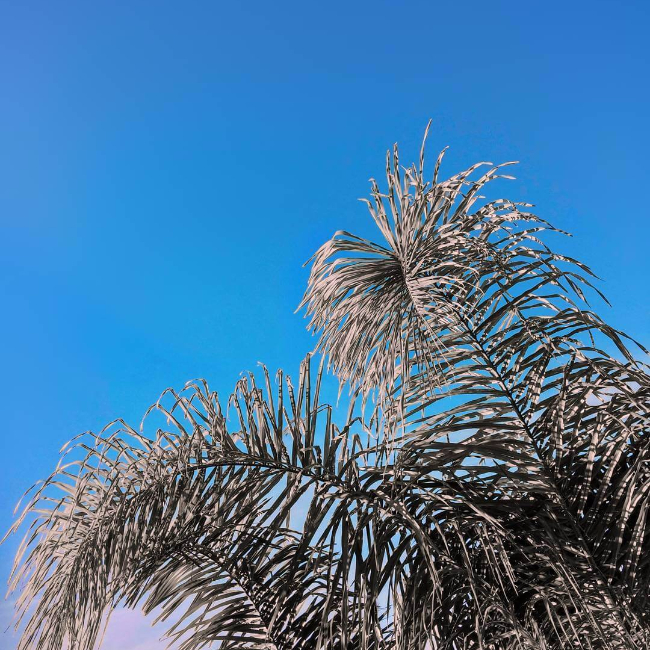
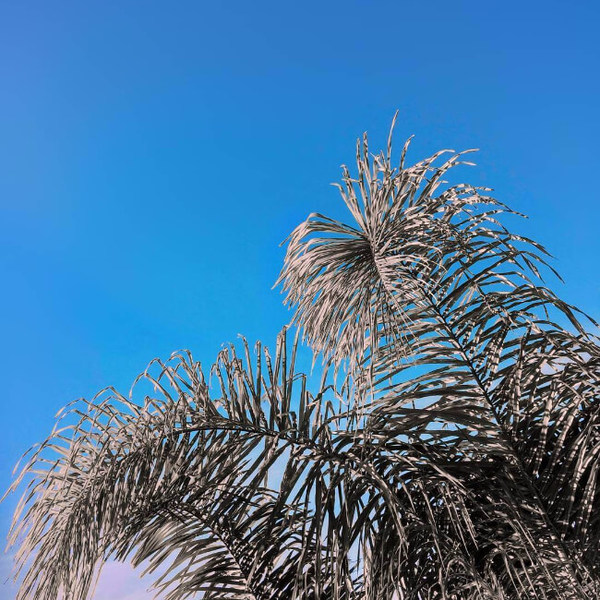
Major improvements and performance fixes Optimized and resized images, updated toolbox skills

diff --git a/index.html b/index.html
@@ -18,8 +18,26 @@
     <meta proprety="og:image" content="images/parallax.jpg"/>
     <title>Ryan Bourhil</title>
     <link rel="icon" href="favicon.ico" type="image/x-icon">
-    <link rel="stylesheet" href="https://cdnjs.cloudflare.com/ajax/libs/materialize/0.97.7/css/materialize.min.css">
-      
+
+    <link rel="stylesheet" href="https://cdnjs.cloudflare.com/ajax/libs/materialize/0.97.7/css/materialize.min.css"  media="none" onload="if(media!=='all')media='all'">
+    <link href="https://fonts.googleapis.com/icon?family=Material+Icons"
+    rel="stylesheet" media="none" onload="if(media!=='all')media='all'">
+  <link
+    rel="stylesheet"
+    href="https://cdnjs.cloudflare.com/ajax/libs/prism/1.5.1/themes/prism-okaidia.css"
+    type="text/css" 
+    media="none" 
+    onload="if(media!=='all')media='all'"
+    />
+    <link rel="stylesheet" href="https://npmcdn.com/jquery-gray@1.5.0/css/gray.min.css" media="none" onload="if(media!=='all')media='all'">
+   
+    <link rel="preload" href="https://code.jquery.com/jquery-2.1.1.min.js" as="script">
+    
+    <script src="https://cdnjs.cloudflare.com/ajax/libs/prism/1.5.1/prism.min.js" async></script>
+    <script src="https://cdnjs.cloudflare.com/ajax/libs/typed.js/1.1.4/typed.min.js" defer></script>
+    <script src="https://cdnjs.cloudflare.com/ajax/libs/prism/1.5.1/components/prism-ruby.js" defer></script>
+    <script src="https://cdn.jsdelivr.net/particles.js/2.0.0/particles.min.js" defer></script>
+    
       <style>
         #about{height: 100%; width: 100%;text-align:center;background-color:#935d8c;color:rgba(255,255,255,0.65);background-image:url(images/overlay.png),linear-gradient(to top,#ee6e73 15%,#9c27b0 85%);margin-bottom:0;}h1{font-size:3.8em}.circle.me{border:solid .3em rgba(255,255,255,0.2);height:10em}#box2{padding:4%}#cards{padding-left:8%;padding-right:8%}.fix{position:fixed;top:0;z-index:5}.typed-cursor{opacity:1;animation:blink .7s infinite}@keyframes blink{0%{opacity:1}50%{opacity:0}100%{opacity:1}}@-webkit-keyframes blink{0%{opacity:1}50%{opacity:0}100%{opacity:1}}@-moz-keyframes blink{0%{opacity:1}50%{opacity:0}100%{opacity:1}}hr.divide{margin-top:4%;width:20%;border:0;box-shadow:inset 0 10px 20px -14px #6738ff;height:10px}#title{padding:4%}#snippet{padding:4%}#snippet-box{padding-left:2%;padding-right:2%}#projects{padding-right:8%;padding-left:8%}div.parallax-container{position:relative;overflow:hidden;height:300px;margin-top:6%}#skills{padding-left:8%;padding-right:8%}#skill-logo{padding:2%}#tools{padding:8%}#tool{padding:2%}#particles{z-index: 0;position: absolute; }#coolstuff{z-index: 1; padding: 5%;}#galleryItem{ padding: 0 }
       </style>  
@@ -349,7 +367,7 @@ end</code></pre>
               
                   </div>
                   <div class="col s4 m2" id="skill-logo">
-                  <a href="#!"><img src="images/ruby.png"  alt="" class="responsive-img grayscale grayscale-fade tooltipped" data-position="top" data-delay="50" data-tooltip="Ruby"> </a>
+                  <a href="#!"><img src="images/webpack.png"  alt="" class="responsive-img grayscale grayscale-fade tooltipped" data-position="top" data-delay="50" data-tooltip="Webpack"> </a>
               
                   </div>
                   
@@ -358,7 +376,7 @@ end</code></pre>
               
                   </div>
                   <div class="col s4 m2" id="skill-logo">
-                  <a href="#!"> <img src="images/angular.png"  alt="" class="responsive-img grayscale grayscale-fade tooltipped" data-position="top" data-delay="50" data-tooltip="AngularJS"> </a>
+                  <a href="#!"> <img src="images/vue.png"  alt="" class="responsive-img grayscale grayscale-fade tooltipped" data-position="top" data-delay="50" data-tooltip="VueJS"> </a>
              
                   </div>
                   
@@ -378,7 +396,7 @@ end</code></pre>
               
                   </div>
                     <div class="col s4 m2 " id="skill-logo">
-                  <a href="#!"><img src="images/ionic.png"  alt="" class="responsive-img grayscale grayscale-fade tooltipped" data-position="top" data-delay="50" data-tooltip="Ionic"> </a>
+                  <a href="#!"><img src="images/pwa.png"  alt="" class="responsive-img grayscale grayscale-fade tooltipped" data-position="top" data-delay="50" data-tooltip="Progressive Web Apps"> </a>
               
                   </div>
                   <div class="col s4 m2" id="skill-logo">
@@ -386,7 +404,7 @@ end</code></pre>
              
                   </div>
                   <div class="col s4 m2 " id="skill-logo">
-                  <a href="#!"><img src="images/redis.png"  alt="" class="responsive-img grayscale grayscale-fade tooltipped" data-position="top" data-delay="50" data-tooltip="Redis"> </a>
+                  <a href="#!"><img src="images/mongodb.png"  alt="" class="responsive-img grayscale grayscale-fade tooltipped" data-position="top" data-delay="50" data-tooltip="mongoDB"> </a>
               
                   </div>
                   
@@ -455,20 +473,19 @@ end</code></pre>
                
                   </div>
                   <div class="col s4 m2 center" id="skill-logo">
-                  <a href="https://github.com/xde013" >
+                  <a href="https://github.com/xde013" target="_blank">
                      <img src="images/github-circle.png"  alt="" class="  tooltipped" data-position="top" data-delay="50" data-tooltip="Github"> 
                   </a>
              
                   </div>
                   <div class="col s4 m2 center" id="skill-logo">
-                  <a href="https://www.linkedin.com/in/ryan-bourhil-b470b611b/" >
+                  <a href="https://www.linkedin.com/in/bourhil" target="_blank">
                     <img src="images/linkedin.png"  alt="" class="  tooltipped" data-position="top" data-delay="50" data-tooltip="Linkedin">
                   </a>
                
                   </div>
                   <div class="col s4 m2 center" id="skill-logo">
                   <a href="#!" ><img src="images/medium.png"  alt="" class="responsive-img  tooltipped" data-position="top" data-delay="50" data-tooltip="Medium"></a>
-               
                   </div>
 
         </div>
@@ -476,34 +493,13 @@ end</code></pre>
           </div>
           <div class="footer-copyright">
             <div class="container">
-            Copyright © 2017. All rights reserved.
+            Copyleft © 2018. No rights reserved.
             <a class="grey-text text-lighten-4 right" href="#!"><i class="material-icons" >code</i> with <i class="material-icons " >favorite_border</i></a>
             </div>
           </div>
         </footer>
-
-        
-    <link href="https://fonts.googleapis.com/icon?family=Material+Icons"
-      rel="stylesheet">
-    <link
-      rel="stylesheet"
-      href="https://cdnjs.cloudflare.com/ajax/libs/prism/1.5.1/themes/prism-okaidia.css"
-      type="text/css"
-      media="screen"
-      />
-      <link rel="stylesheet" href="https://npmcdn.com/jquery-gray@1.5.0/css/gray.min.css">
       </body>
       <script type="text/javascript" src="https://code.jquery.com/jquery-2.1.1.min.js"></script>
-      <script src="https://cdnjs.cloudflare.com/ajax/libs/typed.js/1.1.4/typed.min.js"></script>
-      <script src="https://cdnjs.cloudflare.com/ajax/libs/prism/1.5.1/prism.min.js"></script>
-      <script src="https://cdnjs.cloudflare.com/ajax/libs/prism/1.5.1/components/prism-ruby.js"></script>
-      <script src="https://cdnjs.cloudflare.com/ajax/libs/materialize/0.97.7/js/materialize.min.js"></script>
-      <script src="https://cdn.jsdelivr.net/particles.js/2.0.0/particles.min.js"></script>
-      <script src="js/cool.js" type="text/javascript" charset="utf-8"></script>
-      <script src="js/custom.min.js"></script>
-      <script type="text/javascript" charset="utf-8" async defer>
-        $(document).ready(function(){
-          $('.materialboxed').materialbox();
-        });        
-      </script>
+      <script src="https://cdnjs.cloudflare.com/ajax/libs/materialize/0.97.7/js/materialize.min.js" defer></script>
+      <script src="js/custom.min.js" defer></script>
     </html>

diff --git a/js/custom.min.js b/js/custom.min.js
@@ -1,1 +1,37 @@
-jQuery(document).ready(function(a){function b(){var b=a(window).scrollTop(),c=a("#sticky-anchor").offset().top;b>c?(a("#sticky").addClass("fix"),a(".nav-wrapper").addClass("purple"),a("#title").css({"margin-top":"64px"})):(a("#sticky").removeClass("fix"),a(".nav-wrapper").removeClass("purple"),a("#title").css({"margin-top":"0px"}))}a(".sub").typed({strings:["a web developer.","an Android guy..","a cool kid?","a saiyan!","a photographer..","an IT engineer.", "your father!","a Jedi!"],typeSpeed:30,backSpeed:50,backDelay:1500,loop:!0,startDelay:800,shuffle:!0}),a(".button-collapse").sideNav(),a("#trigger").click(function(){var b=a("<input>");a("body").append(b),b.val(a("#email").text()).select(),document.execCommand("copy"),b.remove(),Materialize.toast("Email copied to Clipboard!",2e3)}),a(window).scroll(b),b(),a(".parallax").parallax(),a(".scrollspy").scrollSpy()});
+jQuery(document).ready(function(a){
+    // $('.materialboxed').materialbox();
+    particlesJS.load('particles', 'config.json', function() {
+      console.log('callback - particles.js config loaded');
+    });
+    function b() {
+        var b = a(window).scrollTop(),
+            c = a("#sticky-anchor").offset().top;
+        b > c ? (a("#sticky").addClass("fix"), a(".nav-wrapper").addClass("purple"), a("#title").css({
+            "margin-top": "64px"
+        })) : (a("#sticky").removeClass("fix"), a(".nav-wrapper").removeClass("purple"), a("#title").css({
+            "margin-top": "0px"
+        }))
+    }
+    a(".sub").typed({
+        strings: ["a web developer.", "a cool kid?", "a saiyan!", "a photographer..", "a Fullstack engineer.", "a Jedi!"],
+        typeSpeed: 30,
+        backSpeed: 50,
+        backDelay: 1500,
+        loop: !0,
+        startDelay: 800,
+        shuffle: !0
+    }), 
+    a(".button-collapse").sideNav(),
+    a("#trigger").click(function() {
+        var b = a("<input>");
+        a("body").append(b), 
+        b.val(a("#email").text()).select(), 
+        document.execCommand("copy"), 
+        b.remove(), 
+        Materialize.toast("Email copied to Clipboard!", 2e3)
+    }), 
+    a(window).scroll(b),
+    b(), 
+    a(".parallax").parallax(), 
+    a(".scrollspy").scrollSpy()
+  });        

diff --git a/js/custom.js b/js/custom.js
@@ -1,18 +1,3 @@
-var feed = new Instafeed({
-        get: 'user',
-        userId: '346102260',
-        accessToken: '346102260.1677ed0.637fa12e6936404c8816a3585aaa075d',
-        useHttp: 'true',
-        target: 'carousel',
-        limit: 8,
-        template: '<a class="carousel-item" ><img src="{{image}}" /></a>',
-        after: function () {
-          $('.carousel').carousel({
-            dist: '50'
-          });
-        }
-    });
-    feed.run();   
 jQuery(document).ready(function($) {
   
   $(".sub").typed({
